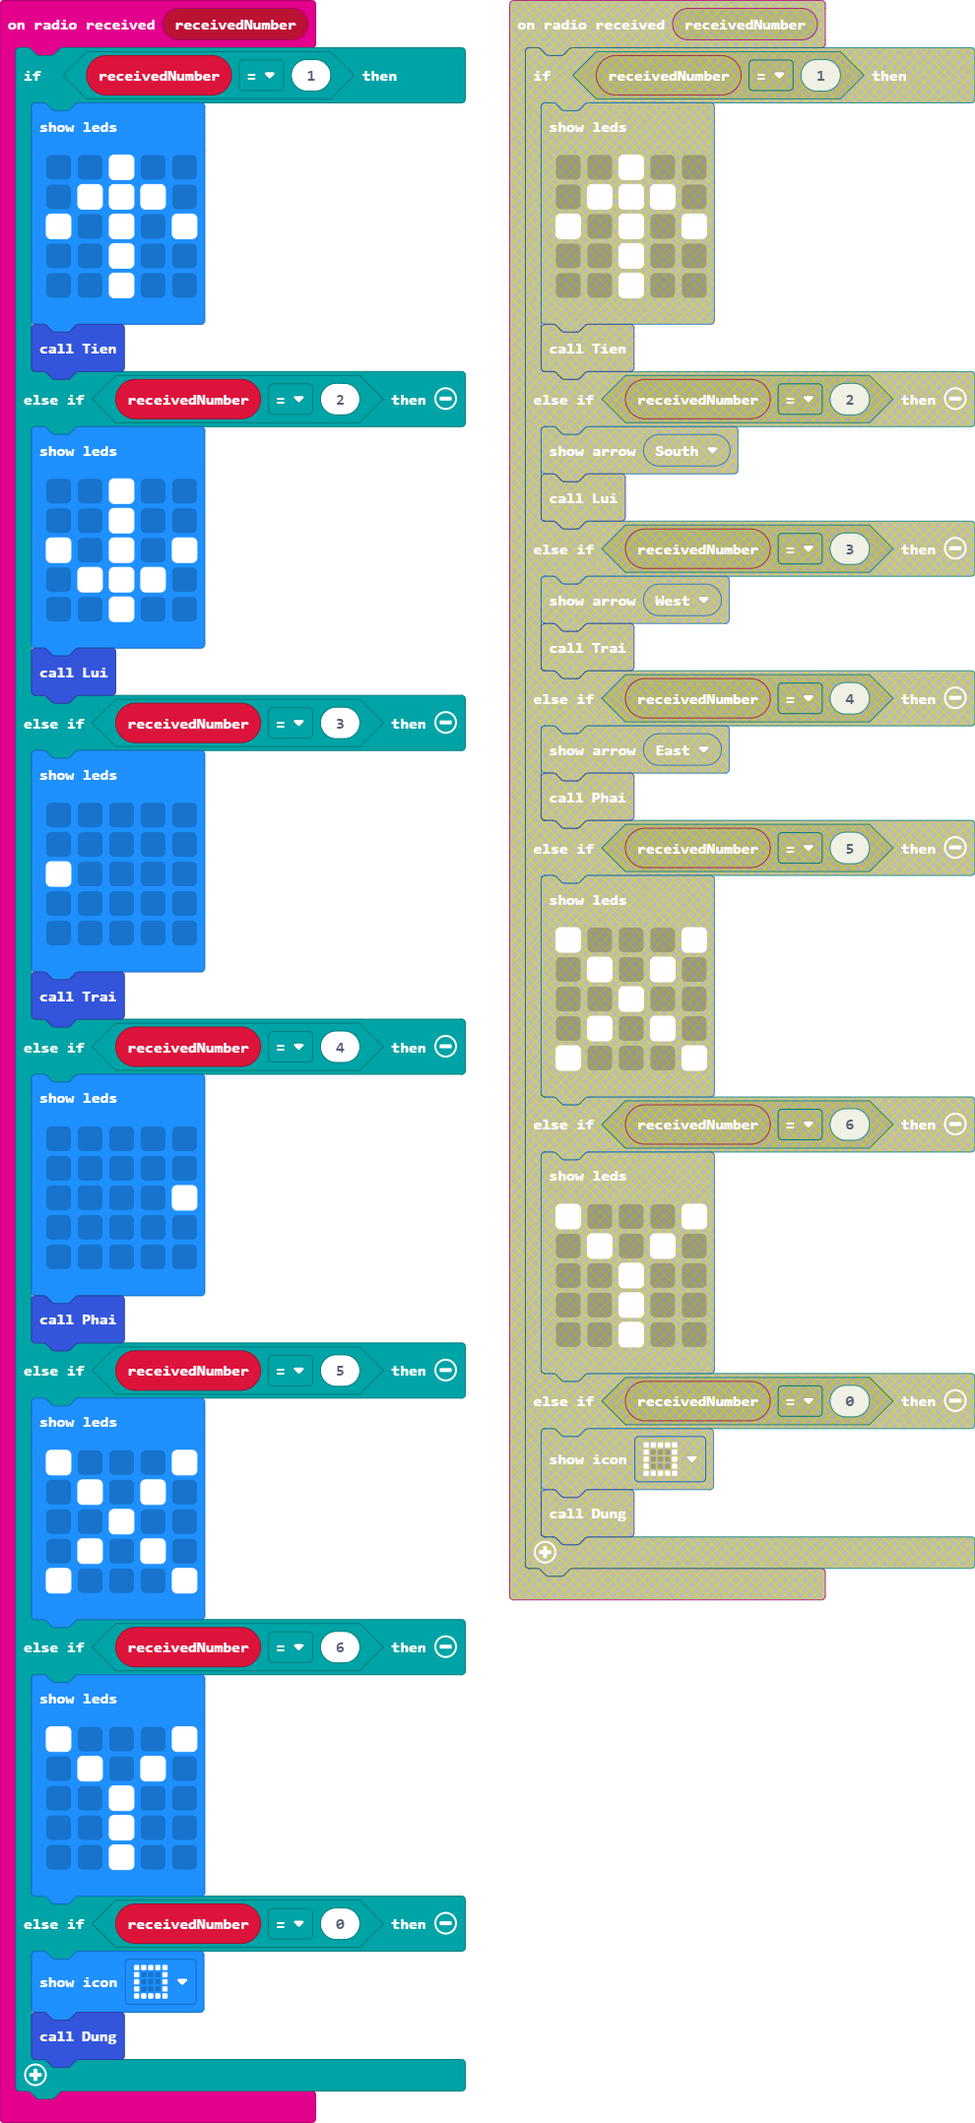
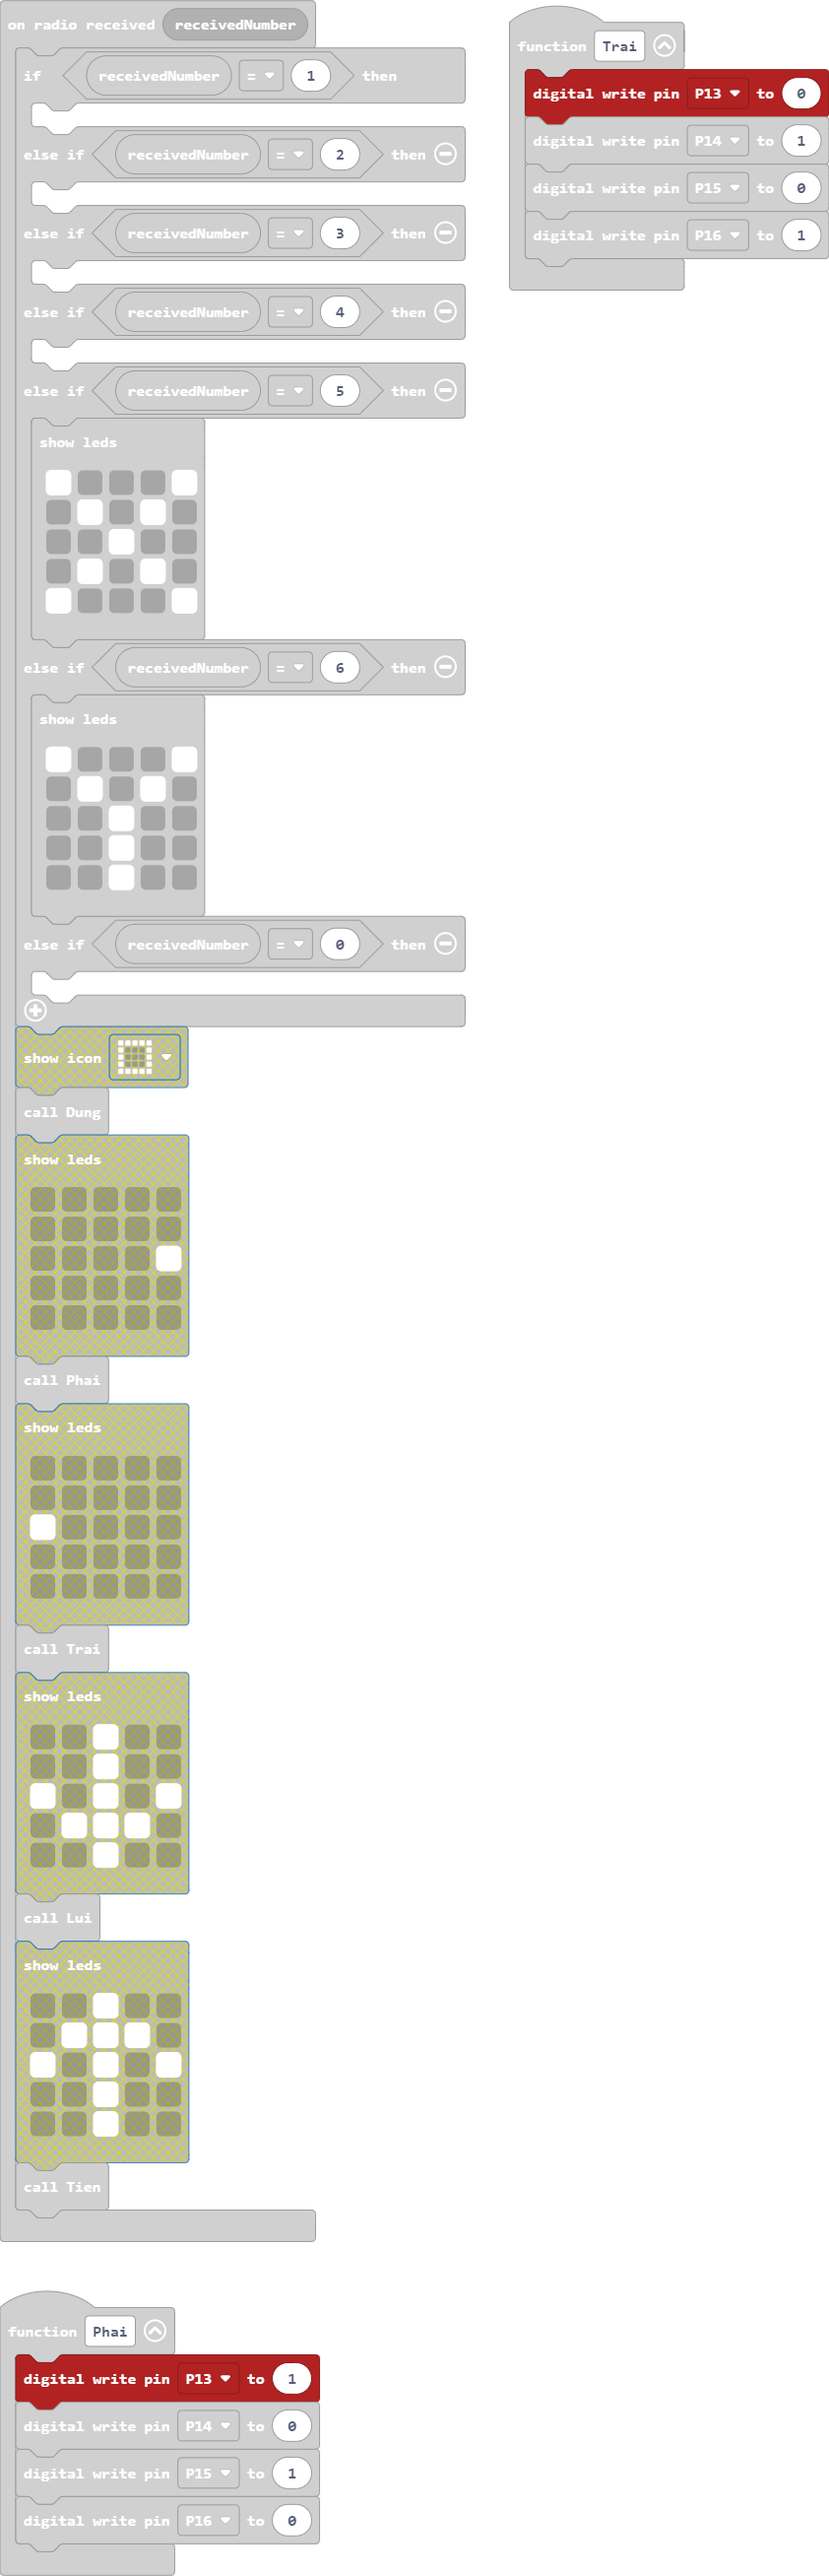
Đổi chiều trái - phải, bỏ hiện thị led khi nhận

diff --git a/main.ts b/main.ts
@@ -1,39 +1,11 @@
 radio.onReceivedNumber(function (receivedNumber) {
     if (receivedNumber == 1) {
-        basic.showLeds(`
-            . . # . .
-            . # # # .
-            # . # . #
-            . . # . .
-            . . # . .
-            `)
         Tien()
     } else if (receivedNumber == 2) {
-        basic.showLeds(`
-            . . # . .
-            . . # . .
-            # . # . #
-            . # # # .
-            . . # . .
-            `)
         Lui()
     } else if (receivedNumber == 3) {
-        basic.showLeds(`
-            . . . . .
-            . . . . .
-            # . . . .
-            . . . . .
-            . . . . .
-            `)
         Trai()
     } else if (receivedNumber == 4) {
-        basic.showLeds(`
-            . . . . .
-            . . . . .
-            . . . . #
-            . . . . .
-            . . . . .
-            `)
         Phai()
     } else if (receivedNumber == 5) {
         basic.showLeds(`
@@ -52,7 +24,6 @@ radio.onReceivedNumber(function (receivedNumber) {
             . . # . .
             `)
     } else if (receivedNumber == 0) {
-        basic.showIcon(IconNames.Square)
         Dung()
     }
 })
@@ -69,10 +40,10 @@ function Tien () {
     pins.digitalWritePin(DigitalPin.P16, 1)
 }
 function Phai () {
-    pins.digitalWritePin(DigitalPin.P13, 0)
-    pins.digitalWritePin(DigitalPin.P14, 1)
-    pins.digitalWritePin(DigitalPin.P15, 0)
-    pins.digitalWritePin(DigitalPin.P16, 1)
+    pins.digitalWritePin(DigitalPin.P13, 1)
+    pins.digitalWritePin(DigitalPin.P14, 0)
+    pins.digitalWritePin(DigitalPin.P15, 1)
+    pins.digitalWritePin(DigitalPin.P16, 0)
 }
 function Dung () {
     pins.digitalWritePin(DigitalPin.P13, 0)
@@ -81,8 +52,8 @@ function Dung () {
     pins.digitalWritePin(DigitalPin.P16, 0)
 }
 function Trai () {
-    pins.digitalWritePin(DigitalPin.P13, 1)
-    pins.digitalWritePin(DigitalPin.P14, 0)
-    pins.digitalWritePin(DigitalPin.P15, 1)
-    pins.digitalWritePin(DigitalPin.P16, 0)
+    pins.digitalWritePin(DigitalPin.P13, 0)
+    pins.digitalWritePin(DigitalPin.P14, 1)
+    pins.digitalWritePin(DigitalPin.P15, 0)
+    pins.digitalWritePin(DigitalPin.P16, 1)
 }
